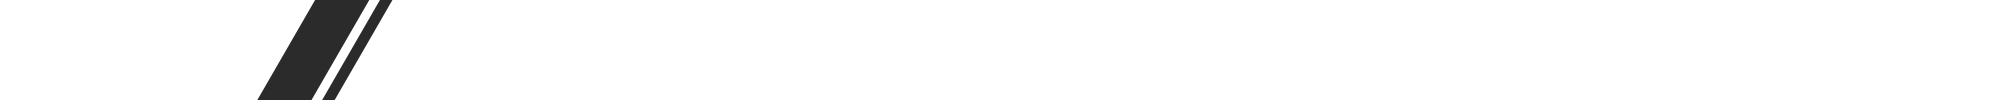
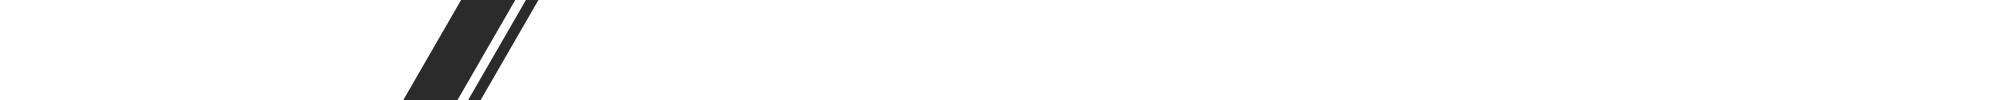
footer formatting and some margin adjustment

Changed region(s): [[0.124, 0.0, 0.279, 1.0]]

diff --git a/client/src/pages/BreweryPortal/Breweries.js b/client/src/pages/BreweryPortal/Breweries.js
@@ -256,7 +256,7 @@ class Breweries extends Component {
                 </Media>
 
                 <div>
-                  <i class="material-icons" onClick={this.toggle}>
+                  <i class="material-icons" onClick={this.toggle} style={{ cursor: "pointer" }}>
                     border_color
                   </i> 
                 </div>
@@ -329,7 +329,7 @@ class Breweries extends Component {
                 {console.log(this.state.currentBrewery)}
                 {console.log(this.state.beers)}
                 {this.state.beers.length ? (
-              <div>
+              <div style={{ marginBottom: "30px" }}>
               <span style={{fontSize: 24, color: "black"}}>Currently On Tap:</span>
                 {this.state.beers.map((beer, index) => (
                   beer.onTap ? (

diff --git a/client/src/pages/Detail/Detail.js b/client/src/pages/Detail/Detail.js
@@ -133,7 +133,7 @@ class Detail extends Component {
       <Container centered>
         {/* Jumbotron */}
         <Row>
-          <Col size="md-12" style={{ marginTop: "30px" }}>
+          <Col size="md-12" style={{ marginTop: "30px", marginBottom: "30px" }}>
             <Jumbotron>
                   {/*jumbotron image needs to be dynamic to brewery info jumbo background upload*/}
               <Media>

diff --git a/client/src/components/Footer/Footer.css b/client/src/components/Footer/Footer.css
@@ -1,8 +1,12 @@
-.footer {
+.footer-background {
 	background: url(../../images/footerImage.png);
-	-webkit-background-size: cover;
-	-moz-background-size: cover;
-	-o-background-size: cover;
-	background-size: cover;
+	background-repeat: no-repeat;
+    background-size: cover;
 	height: 200px;
+	margin: auto;
+}
+
+.footer {
+	margin: auto;
+	background-color: black;
 }

diff --git a/client/src/components/Footer/Footer.js b/client/src/components/Footer/Footer.js
@@ -18,7 +18,9 @@ class Footer extends React.Component {
   
   render () {
       return (
-      	<div className='footer' />
+      	<div className='footer'>
+          <div className='footer-background' />
+        </div>
        )
    }
 } 

diff --git a/client/src/components/Nav/Nav.css b/client/src/components/Nav/Nav.css
@@ -24,6 +24,8 @@ a:hover {
   border-color: #2b2b2b;
   -webkit-box-shadow: 0 0 50px 0 rgba(0,0,0,1);
   box-shadow: 0 0 50px 0 rgba(0,0,0,1);
+  padding-left: 10%;
+  padding-right: 10%;
 }
 
 #signUpLink {
